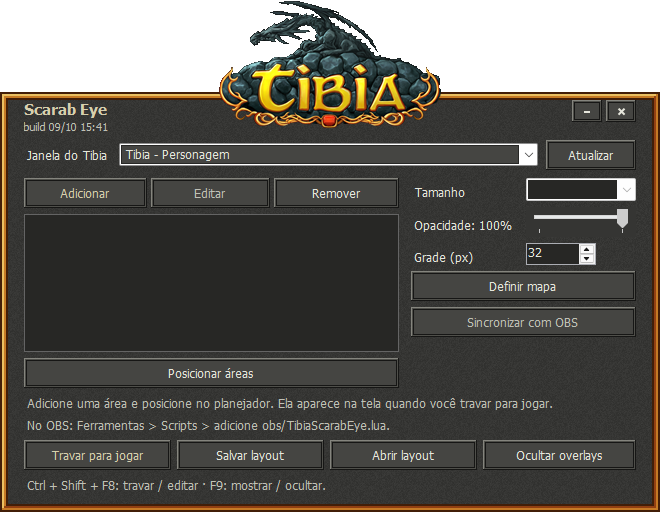
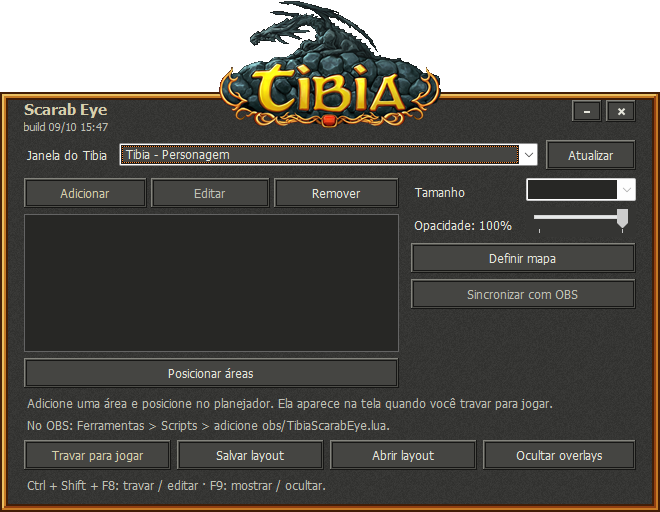
feat(ui): grade fixa e densa no planejador, sem rotulos nas areas
A grade passa a ter celula fixa de 8 px (antes 32 px, configuravel); o campo
Grade (px) e Layout.GridCellPixels saem. As areas no planejador mostram so o
contorno, sem o nome. Linhas da grade so sao desenhadas a cada N celulas
quando a previa fica pequena, mas o encaixe continua por celula.

Changed region(s): [[0.6061, 0.4688, 0.9697, 0.6562]]

diff --git a/src/TibiaScarabEye/UI/MainForm.cs b/src/TibiaScarabEye/UI/MainForm.cs
@@ -13,7 +13,6 @@ internal sealed class MainForm : FramelessForm {
     readonly ComboBox windows=new ComboBox(), zoom=new ComboBox();
     readonly ListBox areas=new ListBox();
     readonly TrackBar opacity=new TrackBar();
-    readonly NumericUpDown gridCell=new NumericUpDown();
     readonly Label status, detail, opacityLabel;
     readonly Button mode;
     readonly Button edit, visibility;
@@ -35,11 +34,10 @@ internal sealed class MainForm : FramelessForm {
 
         windows.DropDownStyle=ComboBoxStyle.DropDownList; windows.Anchor=AnchorStyles.Left|AnchorStyles.Right; windows.Margin=new Padding(0,0,8,0);
         zoom.DropDownStyle=ComboBoxStyle.DropDownList; zoom.Items.AddRange(new object[]{"50%","75%","100%","125%","150%","200%","300%"}); zoom.Width=110; zoom.Anchor=AnchorStyles.Left|AnchorStyles.Right; zoom.Margin=new Padding(0,0,0,6);
-        gridCell.Minimum=8; gridCell.Maximum=128; gridCell.Increment=8; gridCell.Value=32; gridCell.Width=70; gridCell.Anchor=AnchorStyles.Left; gridCell.Margin=new Padding(0,0,0,6);
         areas.BorderStyle=BorderStyle.FixedSingle; areas.ItemHeight=26; areas.IntegralHeight=false; areas.Dock=DockStyle.Fill; areas.Margin=Padding.Empty; areas.MinimumSize=new Size(0,60);
         opacity.AutoSize=false; opacity.BackColor=Theme.Background; opacity.Height=30; opacity.Width=110; opacity.Anchor=AnchorStyles.Left|AnchorStyles.Right; opacity.Margin=new Padding(0,0,0,6);
         opacity.Minimum=20; opacity.Maximum=100; opacity.Value=100; opacity.TickFrequency=20;
-        foreach(Control c in new Control[]{windows,zoom,gridCell,areas}) Theme.Style(c);
+        foreach(Control c in new Control[]{windows,zoom,areas}) Theme.Style(c);
 
         var refresh=Theme.Button("Atualizar",false); refresh.Anchor=AnchorStyles.Left|AnchorStyles.Right; refresh.Width=90; refresh.Click+=delegate { RefreshWindows(); };
         var sourceRow=Table(Columns(AutoColumn(),PercentColumn(100),AutoColumn()),Theme.Caption("Janela do Tibia"),windows,refresh);
@@ -57,10 +55,9 @@ internal sealed class MainForm : FramelessForm {
 
         opacityLabel=Theme.Caption("Opacidade: 100%"); opacityLabel.MinimumSize=new Size(TextRenderer.MeasureText("Opacidade: 100%",Font).Width+2,0);
         var mapButton=Theme.Button("Definir mapa",false); mapButton.Anchor=AnchorStyles.Left|AnchorStyles.Right; mapButton.Click+=delegate { DefineMapArea(); };
-        var gridCaption=Theme.Caption("Grade (px)");
-        tips.SetToolTip(gridCaption,"Tamanho da célula da grade do mapa, em pixels"); tips.SetToolTip(gridCell,"Tamanho da célula da grade do mapa, em pixels"); tips.SetToolTip(mapButton,"Define a área do jogo onde a grade do mapa é desenhada");
+        tips.SetToolTip(mapButton,"Define a área do jogo onde a grade do planejador é desenhada");
         obsCapture=Theme.Button("Sincronizar com OBS",true); obsCapture.Anchor=AnchorStyles.Left|AnchorStyles.Right; obsCapture.Margin=new Padding(0,6,0,0); obsCapture.Click+=delegate { ToggleObsOutput(); };
-        var fields=Table(Columns(AutoColumn(),PercentColumn(100)),Theme.Caption("Tamanho"),zoom,opacityLabel,opacity,gridCaption,gridCell);
+        var fields=Table(Columns(AutoColumn(),PercentColumn(100)),Theme.Caption("Tamanho"),zoom,opacityLabel,opacity);
         side=Table(Columns(PercentColumn(100)),fields,mapButton,obsCapture); side.Dock=DockStyle.Top; var right=side;
         var main=body=Table(Columns(PercentColumn(100),AutoColumn()),left,right);
         main.RowStyles[0]=new RowStyle(SizeType.Percent,100);
@@ -87,7 +84,6 @@ internal sealed class MainForm : FramelessForm {
 
         areas.SelectedIndexChanged+=delegate { BindSelection(); };
         areas.DoubleClick+=delegate { EditArea(); };
-        gridCell.ValueChanged+=delegate { dirty=true; };
         zoom.SelectedIndexChanged+=delegate { if(binding || Selected==null || zoom.SelectedIndex<0) return; Safe(delegate { Selected.Zoom(new double[]{.5,.75,1,1.25,1.5,2,3}[zoom.SelectedIndex]); dirty=true; }); };
         opacity.ValueChanged+=delegate { opacityLabel.Text="Opacidade: "+opacity.Value+"%"; if(!binding && Selected!=null) { Selected.Spec.Opacity=opacity.Value; Selected.ApplyStyle(); dirty=true; } };
         windows.SelectedIndexChanged+=delegate {
@@ -180,7 +176,7 @@ internal sealed class MainForm : FramelessForm {
         if(!Ready()) return;
         if(locked) ToggleMode();
         Safe(delegate {
-            using(var planner=new Planner(source,overlays,mapRegion,(int)gridCell.Value,areas.SelectedIndex))
+            using(var planner=new Planner(source,overlays,mapRegion,areas.SelectedIndex))
                 if(planner.ShowDialog(this)==DialogResult.OK && planner.Moved) dirty=true;
         });
     }
@@ -269,7 +265,7 @@ internal sealed class MainForm : FramelessForm {
         using(var dialog=new SaveFileDialog { Filter="Layout Tibia Scarab Eye (*.json)|*.json", FileName="Meu layout.json", Title="Salvar layout" }) {
             if(dialog.ShowDialog(this)!=DialogResult.OK) return false;
             try {
-                var layout=new Layout { SourceTitle=sourceTitle,MapRegion=mapRegion,GridCellPixels=(int)gridCell.Value };
+                var layout=new Layout { SourceTitle=sourceTitle,MapRegion=mapRegion };
                 foreach(var overlay in overlays) { overlay.CaptureSpec(); layout.Regions.Add(overlay.Spec); }
                 layout.Save(dialog.FileName); dirty=false; status.Text="Layout salvo em "+dialog.FileName; return true;
             } catch(Exception ex) { MessageBox.Show(this,"Não foi possível salvar.\n"+ex.Message); return false; }
@@ -289,7 +285,7 @@ internal sealed class MainForm : FramelessForm {
                 var layout=Layouts.Layout.Load(dialog.FileName);
                 if(!CanReplace()) return;
                 ClearOverlays();
-                mapRegion=layout.MapRegion; gridCell.Value=Math.Max(gridCell.Minimum,Math.Min(gridCell.Maximum,layout.GridCellPixels));
+                mapRegion=layout.MapRegion;
                 try { foreach(var spec in layout.Regions) CreateOverlay(spec); dirty=false; }
                 catch { dirty=overlays.Count>0; throw; }
                 status.Text="Layout aberto na janela selecionada. Confira os recortes se a resolução mudou.";

diff --git a/src/TibiaScarabEye/UI/Planner.cs b/src/TibiaScarabEye/UI/Planner.cs
@@ -15,10 +15,11 @@ internal sealed class Planner : Form {
         public Rectangle Original, Rect;
         public Thumbnail Thumb;
     }
+    // Grade densa e fixa: 8 px de célula deixam posicionar com precisão sem um controle a mais na janela principal.
+    internal const int CellPixels=8;
     readonly IntPtr source;
     readonly IList<Overlay> overlays;
     readonly RegionSpec map;
-    readonly int cell;
     readonly List<Item> items=new List<Item>();
     readonly PlanAdorner adorner=new PlanAdorner();
     readonly Button apply, cancel;
@@ -29,13 +30,13 @@ internal sealed class Planner : Form {
     Item selected, dragging;
     Point grabOffset;
     public bool Moved { get; private set; }
-    public Planner(IntPtr src,IList<Overlay> areas,RegionSpec mapRegion,int cellPixels,int selectedIndex) {
-        source=src; overlays=areas; map=mapRegion; cell=cellPixels;
+    public Planner(IntPtr src,IList<Overlay> areas,RegionSpec mapRegion,int selectedIndex) {
+        source=src; overlays=areas; map=mapRegion;
         Theme.Apply(this); Text="Posicionar áreas • Tibia Scarab Eye";
         Size=new Size(1060,740); MinimumSize=new Size(760,480); StartPosition=FormStartPosition.CenterParent;
         Controls.Add(Theme.Label("Arraste as áreas para posicioná-las no jogo. Elas só aparecem na tela no modo jogo.",20,16,1000,26,false));
         Controls.Add(Theme.Label(map!=null
-            ?"Grade de "+cell+" px sobre a área do mapa. Segure Alt para mover sem prender na grade."
+            ?"Grade de "+CellPixels+" px sobre a área do mapa. Segure Alt para mover sem prender na grade."
             :"Sem mapa definido: a grade cobre a janela inteira. Use Definir mapa no painel principal para alinhá-la à área de jogo.",20,44,1000,24,true));
         apply=Theme.Button("Aplicar posições",20,0,190,true); apply.Anchor=AnchorStyles.Bottom|AnchorStyles.Left; apply.Click+=delegate { Apply(); }; Controls.Add(apply);
         cancel=Theme.Button("Cancelar",224,0,120,false); cancel.Anchor=apply.Anchor; cancel.Click+=delegate { DialogResult=DialogResult.Cancel; }; Controls.Add(cancel); CancelButton=cancel;
@@ -89,8 +90,8 @@ internal sealed class Planner : Form {
     }
     void Mark() {
         var marks=new PlanAdorner.Mark[items.Count];
-        for(int i=0;i<marks.Length;i++) marks[i]=new PlanAdorner.Mark { Rect=ToView(items[i].Rect), Name=items[i].Overlay.Spec.Name, Selected=items[i]==selected };
-        adorner.Update(preview,ToView(grid),cell*ViewScale,marks);
+        for(int i=0;i<marks.Length;i++) marks[i]=new PlanAdorner.Mark { Rect=ToView(items[i].Rect), Selected=items[i]==selected };
+        adorner.Update(preview,ToView(grid),CellPixels*ViewScale,marks);
     }
     void PositionAdorner() { if(IsHandleCreated && !adorner.IsDisposed) adorner.Bounds=RectangleToScreen(ClientRectangle); }
 
@@ -109,7 +110,7 @@ internal sealed class Planner : Form {
     void Drag(Point p) {
         Point at=ToWindow(p), target=new Point(at.X-grabOffset.X,at.Y-grabOffset.Y);
         var size=dragging.Rect.Size;
-        if((ModifierKeys&Keys.Alt)==0 && new Rectangle(target,size).IntersectsWith(grid)) target=Geometry.SnapToGrid(target,grid,cell);
+        if((ModifierKeys&Keys.Alt)==0 && new Rectangle(target,size).IntersectsWith(grid)) target=Geometry.SnapToGrid(target,grid,CellPixels);
         Place(dragging,target);
     }
     void Place(Item item,Point location) {
@@ -117,7 +118,7 @@ internal sealed class Planner : Form {
         DrawItem(item); Mark();
     }
     protected override bool ProcessCmdKey(ref Message msg,Keys keyData) {
-        int step=(keyData&Keys.Shift)!=0?1:cell, dx=0, dy=0;
+        int step=(keyData&Keys.Shift)!=0?1:CellPixels, dx=0, dy=0;
         switch(keyData&Keys.KeyCode) {
             case Keys.Left: dx=-step; break;
             case Keys.Right: dx=step; break;

diff --git a/tests/TibiaScarabEye.Tests/Desktop/PlannerTests.cs b/tests/TibiaScarabEye.Tests/Desktop/PlannerTests.cs
@@ -13,7 +13,7 @@ namespace TibiaScarabEye.Tests.Desktop;
 [Trait("Category", "Desktop")]
 public class PlannerTests
 {
-    private const int Cell = 32;
+    private const int Cell = Planner.CellPixels;
 
     // Overlay pronta (janela criada, nao exibida) 100 px dentro do canto da janela de origem.
     private static Overlay NewOverlay(SourceWindow source, string name, int offsetX, int offsetY)
@@ -41,7 +41,7 @@ public class PlannerTests
         using var source = new SourceWindow();
         using var overlay = NewOverlay(source, "Vida", 100, 100);
         var window = Native.ThumbnailBounds(source.Handle);
-        using var planner = new Planner(source.Handle, new List<Overlay> { overlay }, null, Cell, 0);
+        using var planner = new Planner(source.Handle, new List<Overlay> { overlay }, null, 0);
         ShowOffscreen(planner);
 
         Point from = ViewPoint(planner, overlay, source, 4);
@@ -65,7 +65,7 @@ public class PlannerTests
         using var source = new SourceWindow();
         using var overlay = NewOverlay(source, "Vida", 100, 100);
         Rectangle before = overlay.Bounds;
-        using var planner = new Planner(source.Handle, new List<Overlay> { overlay }, null, Cell, 0);
+        using var planner = new Planner(source.Handle, new List<Overlay> { overlay }, null, 0);
         ShowOffscreen(planner);
 
         Point from = ViewPoint(planner, overlay, source, 4);
@@ -84,7 +84,7 @@ public class PlannerTests
         using var source = new SourceWindow();
         using var overlay = NewOverlay(source, "Vida", 100, 100);
         var window = Native.ThumbnailBounds(source.Handle);
-        using var planner = new Planner(source.Handle, new List<Overlay> { overlay }, null, Cell, 0);
+        using var planner = new Planner(source.Handle, new List<Overlay> { overlay }, null, 0);
         ShowOffscreen(planner);
 
         Point from = ViewPoint(planner, overlay, source, 4);
@@ -103,7 +103,7 @@ public class PlannerTests
         using var source = new SourceWindow();
         using var overlay = NewOverlay(source, "Vida", 96, 96);
         var window = Native.ThumbnailBounds(source.Handle);
-        using var planner = new Planner(source.Handle, new List<Overlay> { overlay }, null, Cell, 0);
+        using var planner = new Planner(source.Handle, new List<Overlay> { overlay }, null, 0);
         ShowOffscreen(planner);
 
         Message message = default;
@@ -121,7 +121,7 @@ public class PlannerTests
         using var source = new SourceWindow();
         using var overlay = NewOverlay(source, "Vida", -3000, -3000);
         var window = Native.ThumbnailBounds(source.Handle);
-        using var planner = new Planner(source.Handle, new List<Overlay> { overlay }, null, Cell, 0);
+        using var planner = new Planner(source.Handle, new List<Overlay> { overlay }, null, 0);
         ShowOffscreen(planner);
 
         Click(planner, "Aplicar posições");

diff --git a/src/TibiaScarabEye/UI/PlanAdorner.cs b/src/TibiaScarabEye/UI/PlanAdorner.cs
@@ -7,7 +7,7 @@ namespace TibiaScarabEye.UI;
 
 // Desenha, acima da miniatura do jogo no planejador, a grade do mapa e o contorno de cada área.
 internal sealed class PlanAdorner : Adorner {
-    internal struct Mark { public Rectangle Rect; public string Name; public bool Selected; }
+    internal struct Mark { public Rectangle Rect; public bool Selected; }
     Rectangle preview, grid;
     double cell;
     Mark[] marks=new Mark[0];
@@ -27,9 +27,14 @@ internal sealed class PlanAdorner : Adorner {
         if(area.IsEmpty) return;
         g.SetClip(area);
         // Linhas opacas: a janela usa chave de cor, então transparência no traço deixaria franjas coloridas.
-        if(cell>=4) using(var pen=new Pen(Color.FromArgb(212,213,199)) { DashStyle=DashStyle.Dot }) {
-            for(double x=grid.Left;x<=grid.Right+0.5;x+=cell) g.DrawLine(pen,(int)Math.Round(x),grid.Top,(int)Math.Round(x),grid.Bottom);
-            for(double y=grid.Top;y<=grid.Bottom+0.5;y+=cell) g.DrawLine(pen,grid.Left,(int)Math.Round(y),grid.Right,(int)Math.Round(y));
+        // Com a janela do jogo reduzida na prévia, a célula pode ficar menor que 4 px: desenha uma linha a cada N células
+        // para a grade nunca virar um borrão. O encaixe continua por célula.
+        if(cell>0) {
+            double step=cell*Math.Ceiling(4/cell);
+            using(var pen=new Pen(Color.FromArgb(212,213,199)) { DashStyle=DashStyle.Dot }) {
+                for(double x=grid.Left;x<=grid.Right+0.5;x+=step) g.DrawLine(pen,(int)Math.Round(x),grid.Top,(int)Math.Round(x),grid.Bottom);
+                for(double y=grid.Top;y<=grid.Bottom+0.5;y+=step) g.DrawLine(pen,grid.Left,(int)Math.Round(y),grid.Right,(int)Math.Round(y));
+            }
         }
         g.SetClip(preview);
         using(var border=new Pen(Theme.Gold,2)) g.DrawRectangle(border,grid.X,grid.Y,grid.Width-1,grid.Height-1);
@@ -38,13 +43,6 @@ internal sealed class PlanAdorner : Adorner {
         using(var shadow=new Pen(Color.Black,mark.Selected?5:4)) using(var border=new Pen(mark.Selected?Theme.Gold:Color.White,mark.Selected?3:2)) {
             g.DrawRectangle(shadow,mark.Rect);
             g.DrawRectangle(border,mark.Rect);
-        }
-        using(var font=new Font("Tahoma",8,FontStyle.Bold)) {
-            Size text=TextRenderer.MeasureText(mark.Name,font);
-            var tag=new Rectangle(mark.Rect.Left+2,mark.Rect.Top+2,Math.Min(text.Width+6,Math.Max(0,mark.Rect.Width-4)),text.Height+2);
-            if(tag.Width<=0) return;
-            g.FillRectangle(Brushes.Black,tag);
-            TextRenderer.DrawText(g,mark.Name,font,tag,mark.Selected?Theme.Gold:Color.White,TextFormatFlags.Left|TextFormatFlags.VerticalCenter|TextFormatFlags.EndEllipsis|TextFormatFlags.NoPadding);
         }
     }
 }

diff --git a/src/TibiaScarabEye/Layouts/Layout.cs b/src/TibiaScarabEye/Layouts/Layout.cs
@@ -11,7 +11,6 @@ namespace TibiaScarabEye.Layouts;
     [DataMember] public string SourceTitle;
     [DataMember] public bool ObsEnabled;
     [DataMember] public RegionSpec MapRegion;
-    [DataMember] public int GridCellPixels=32;
     [DataMember] public List<RegionSpec> Regions=new List<RegionSpec>();
     public static Layout Load(string path) {
         if (new FileInfo(path).Length>1024*1024) throw new InvalidDataException("Este arquivo é grande demais para ser um layout.");

diff --git a/README.md b/README.md
@@ -33,8 +33,8 @@ overlays sobre o mapa, enquanto o cliente continua inalterado.*
 - **Atalhos globais** que funcionam mesmo com o painel minimizado:
   `Ctrl + Shift + F8` alterna edição e jogo, `Ctrl + Shift + F9` mostra ou
   oculta as overlays na tela e no OBS.
-- **Grade do mapa** com tamanho de célula configurável. O planejador a desenha
-  sobre a área de jogo que você definiu e prende as áreas nela.
+- **Grade do mapa** densa (células de 8 px). O planejador a desenha sobre a
+  área de jogo que você definiu e prende as áreas nela.
 - **Salva e abre layouts** em arquivos JSON.
 - **Sincroniza com o OBS.** As overlays aparecem na cena, acima da captura do
   jogo, e acompanham o que você muda no programa em cerca de 100 ms.
